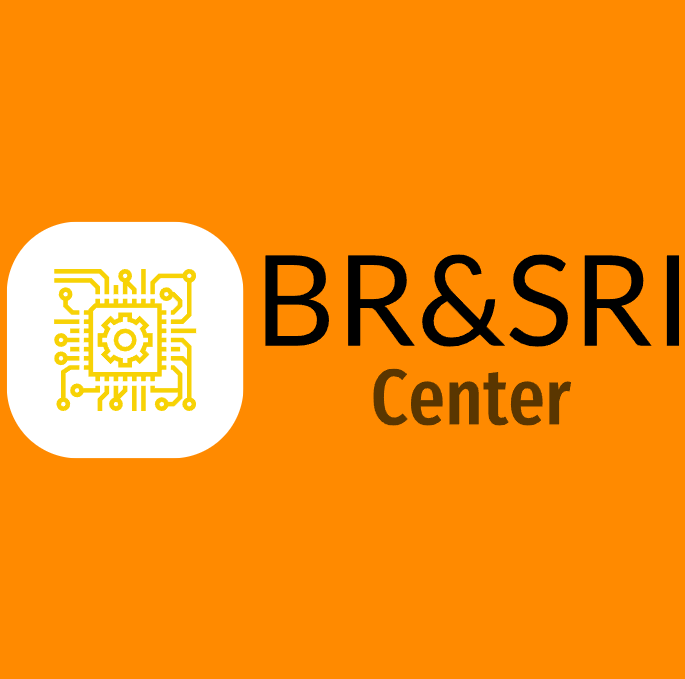
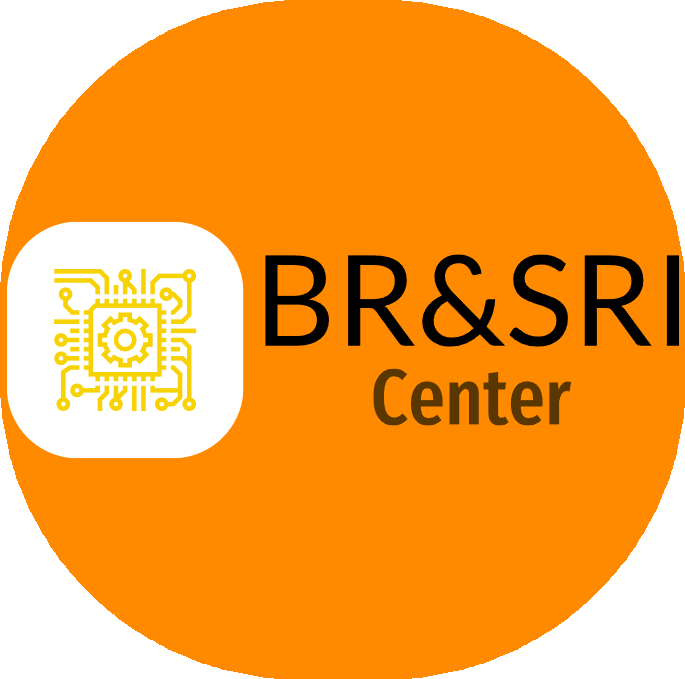
latest pushes

diff --git a/scripts/index.js b/scripts/index.js
@@ -1,4 +1,5 @@
 const { app, BrowserWindow, Menu } = require('electron');
+const path = require('path');
 
 // Application configuration
 const appConfig = {
@@ -22,6 +23,7 @@ async function createMainWindow() {
       contextIsolation: false,
       userAgent: appConfig.userAgent,
     },
+    icon: path.join(__dirname, '../icons.png'), // Path to the icon file
   });
 
   try {
